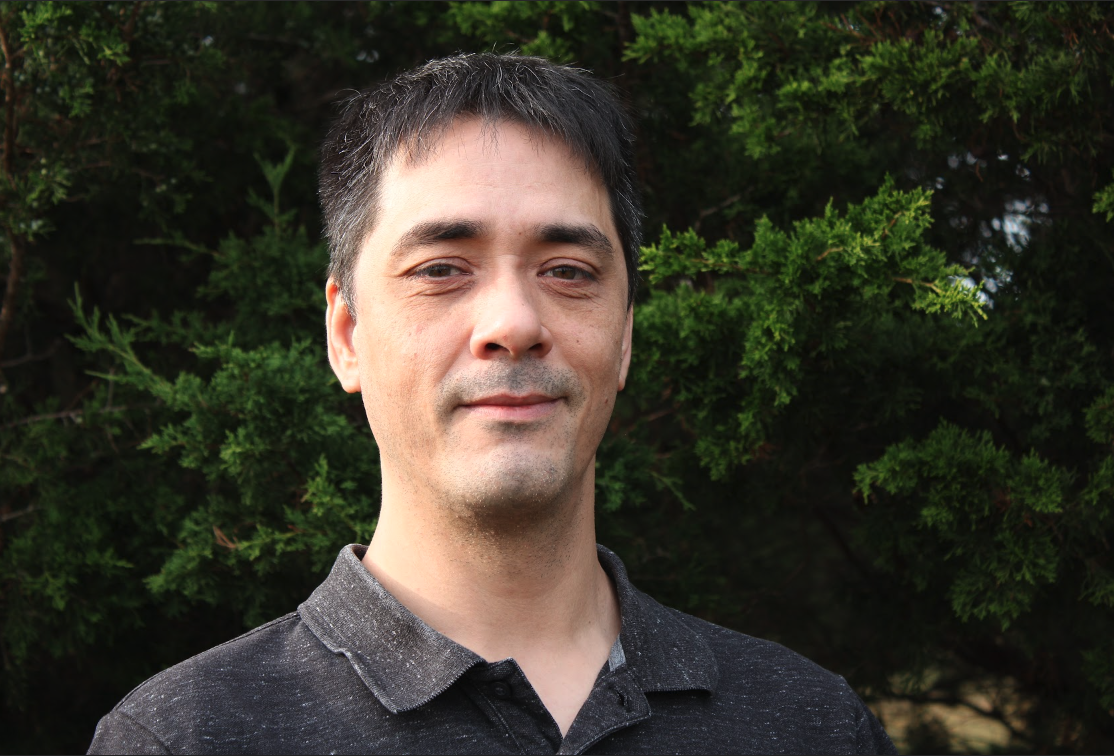
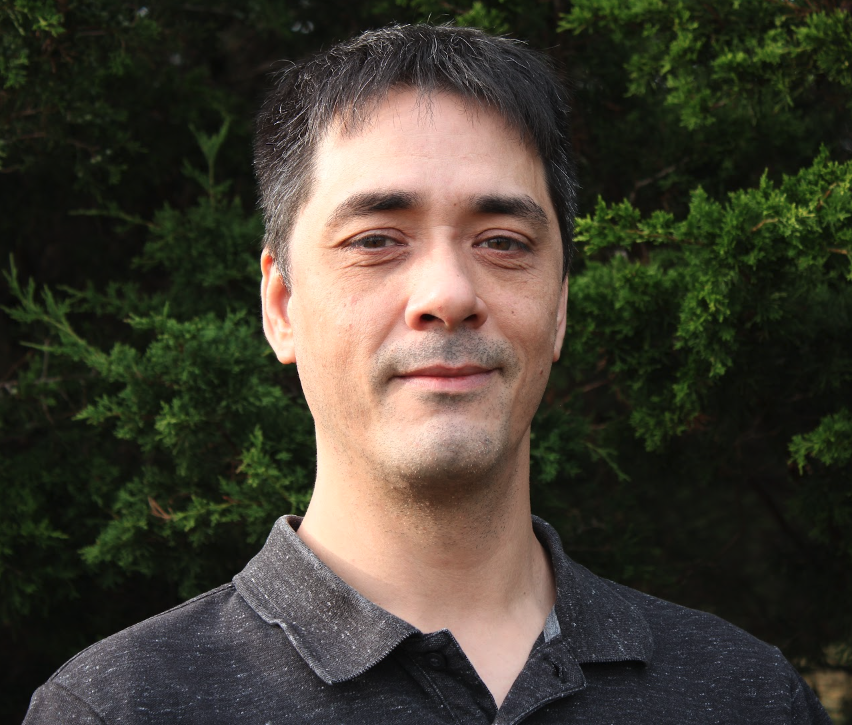
added headshot

diff --git a/src/App.jsx b/src/App.jsx
@@ -2,6 +2,7 @@
 import TechIcons from "./TechIcons"
 import githubLogo from "./assets/tech_icons/github.svg"
 import gitlabLogo from "./assets/tech_icons/gitlab.svg"
+import headshot from "./assets/info/headshot.png"
 import LinkedInIcon from "./tech_icons/LinkedInIcon"
 import GitHubIcon from "./tech_icons/GitHubIcon"
 import GitLabIcon from "./tech_icons/GitLabIcon"
@@ -29,7 +30,18 @@ function App() {
       <TechIcons/>
       <section className="glass" style={{"display": "flex", "alignItems": "center", "width": "45%", "justifyContent": "center"}}>
         <div>
-          <h1 className="text-shadow">Phil Huynh</h1>
+          <img
+            src={headshot}
+            style={{
+              "width": "25rem",
+              "overflow": "hidden",
+              "objectFit": "fit",
+              "borderRadius": "25px",
+              "border": "2px inset black"
+            }}>
+          </img>
+          <h1 className="text-shadow name-header">Phil Huynh</h1>
+          <h2 className="text-shadow">Full Stack Engineer</h2>
           <section className="extra-shadow" style={iconSectionStyle}>
             <a href="https://www.linkedin.com/in/phil-huynh-38472249/"><LinkedInIcon/></a>
             <a href="https://github.com/phil-huynh"><GitHubIcon/></a>

diff --git a/src/index.css b/src/index.css
@@ -1,7 +1,7 @@
 
 :root {
   font-family: Inter, system-ui, Avenir, Helvetica, Arial, sans-serif;
-  line-height: 1.5;
+  /* line-height: 1.5; */
   font-weight: 400;
 
   color-scheme: light dark;
@@ -23,6 +23,10 @@ body {
   min-height: 100vh;
 }
 
+.name-header {
+  font-size: 3.5rem;
+}
+
 .extra-shadow {
   filter: drop-shadow(3px 3px 1px rgb(0 0 0 / 0.9));
 }
@@ -42,7 +46,7 @@ body {
 
 
 .text-shadow {
-  text-shadow: 5px 7px black;
+  text-shadow: 5px 5px 2px black;
 }
 
 .glass {
